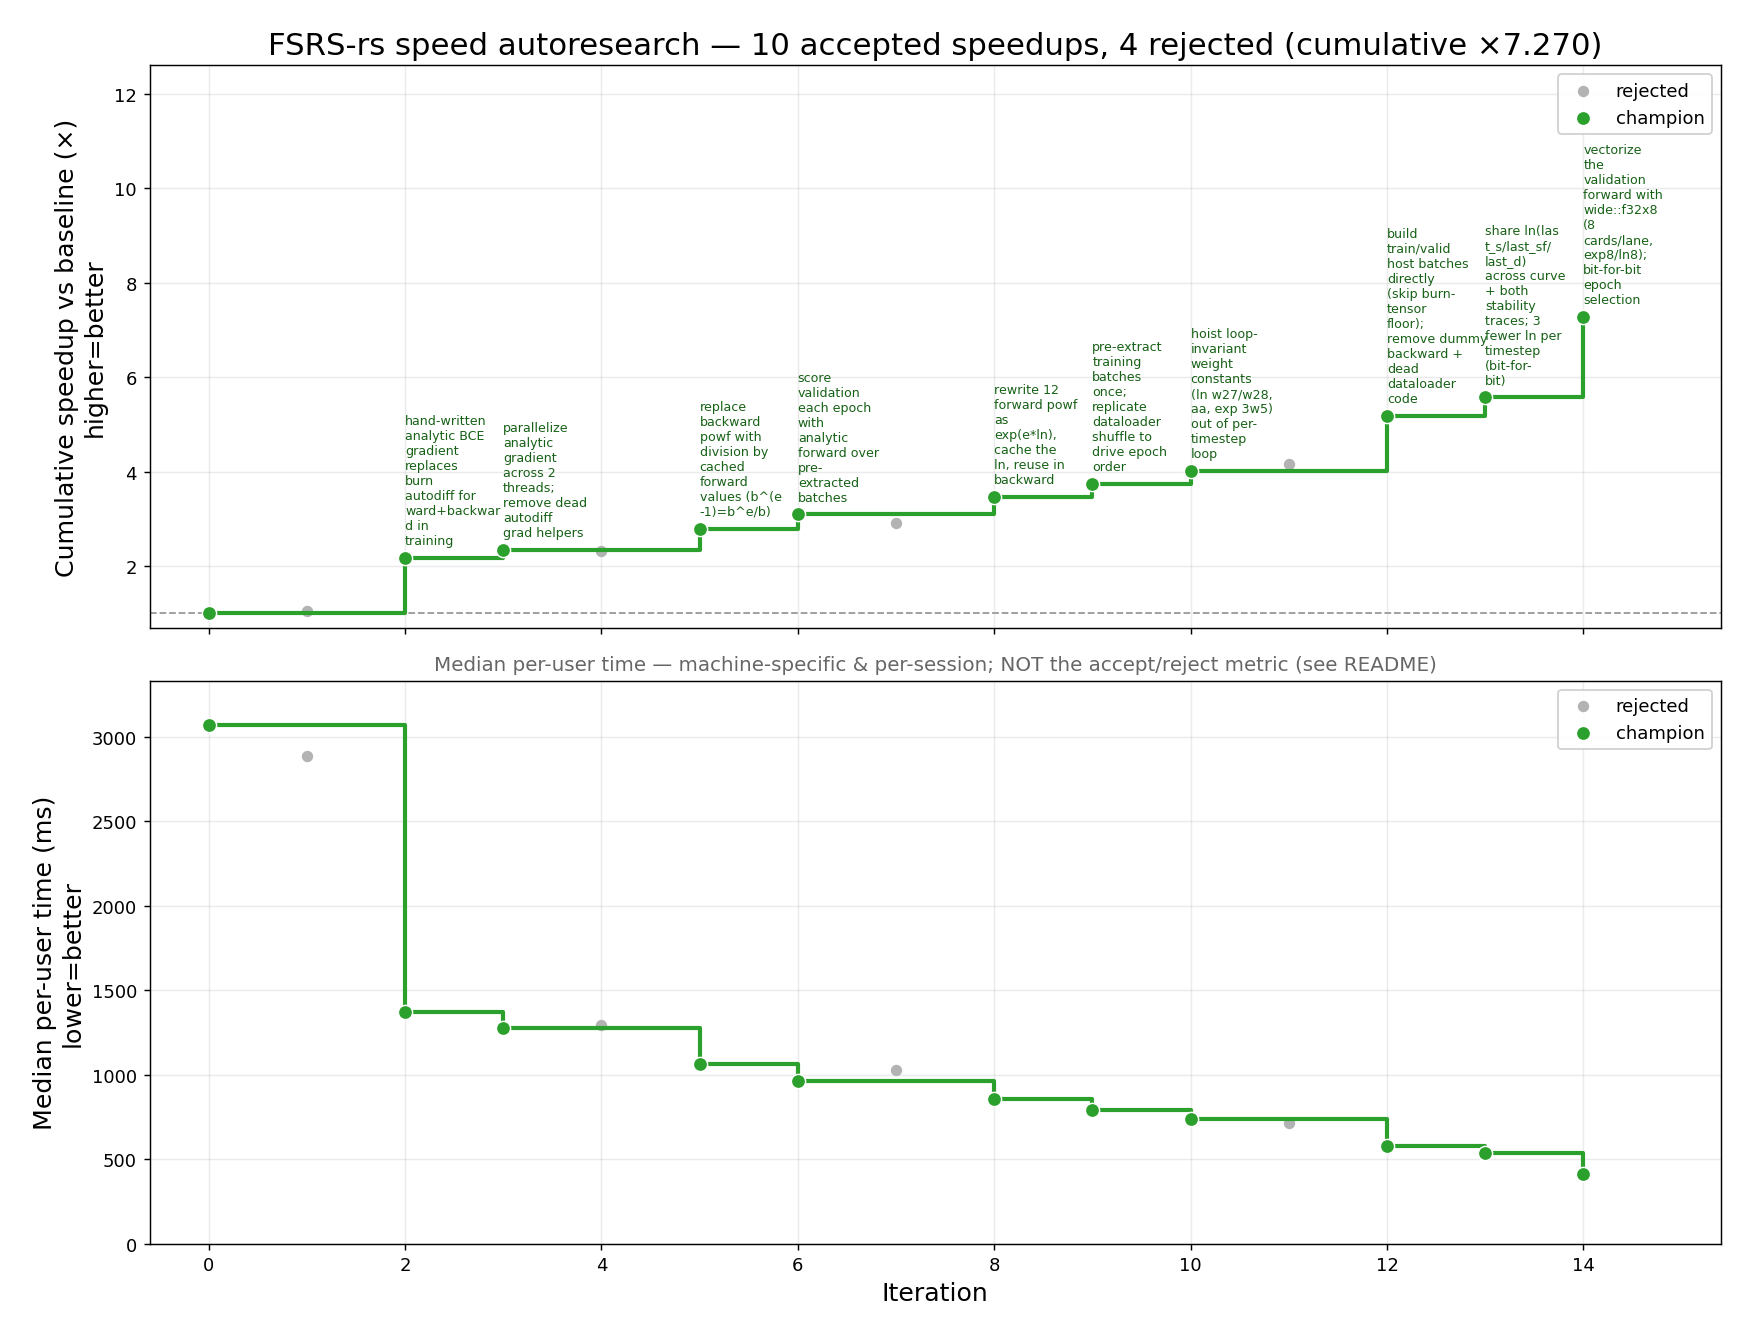
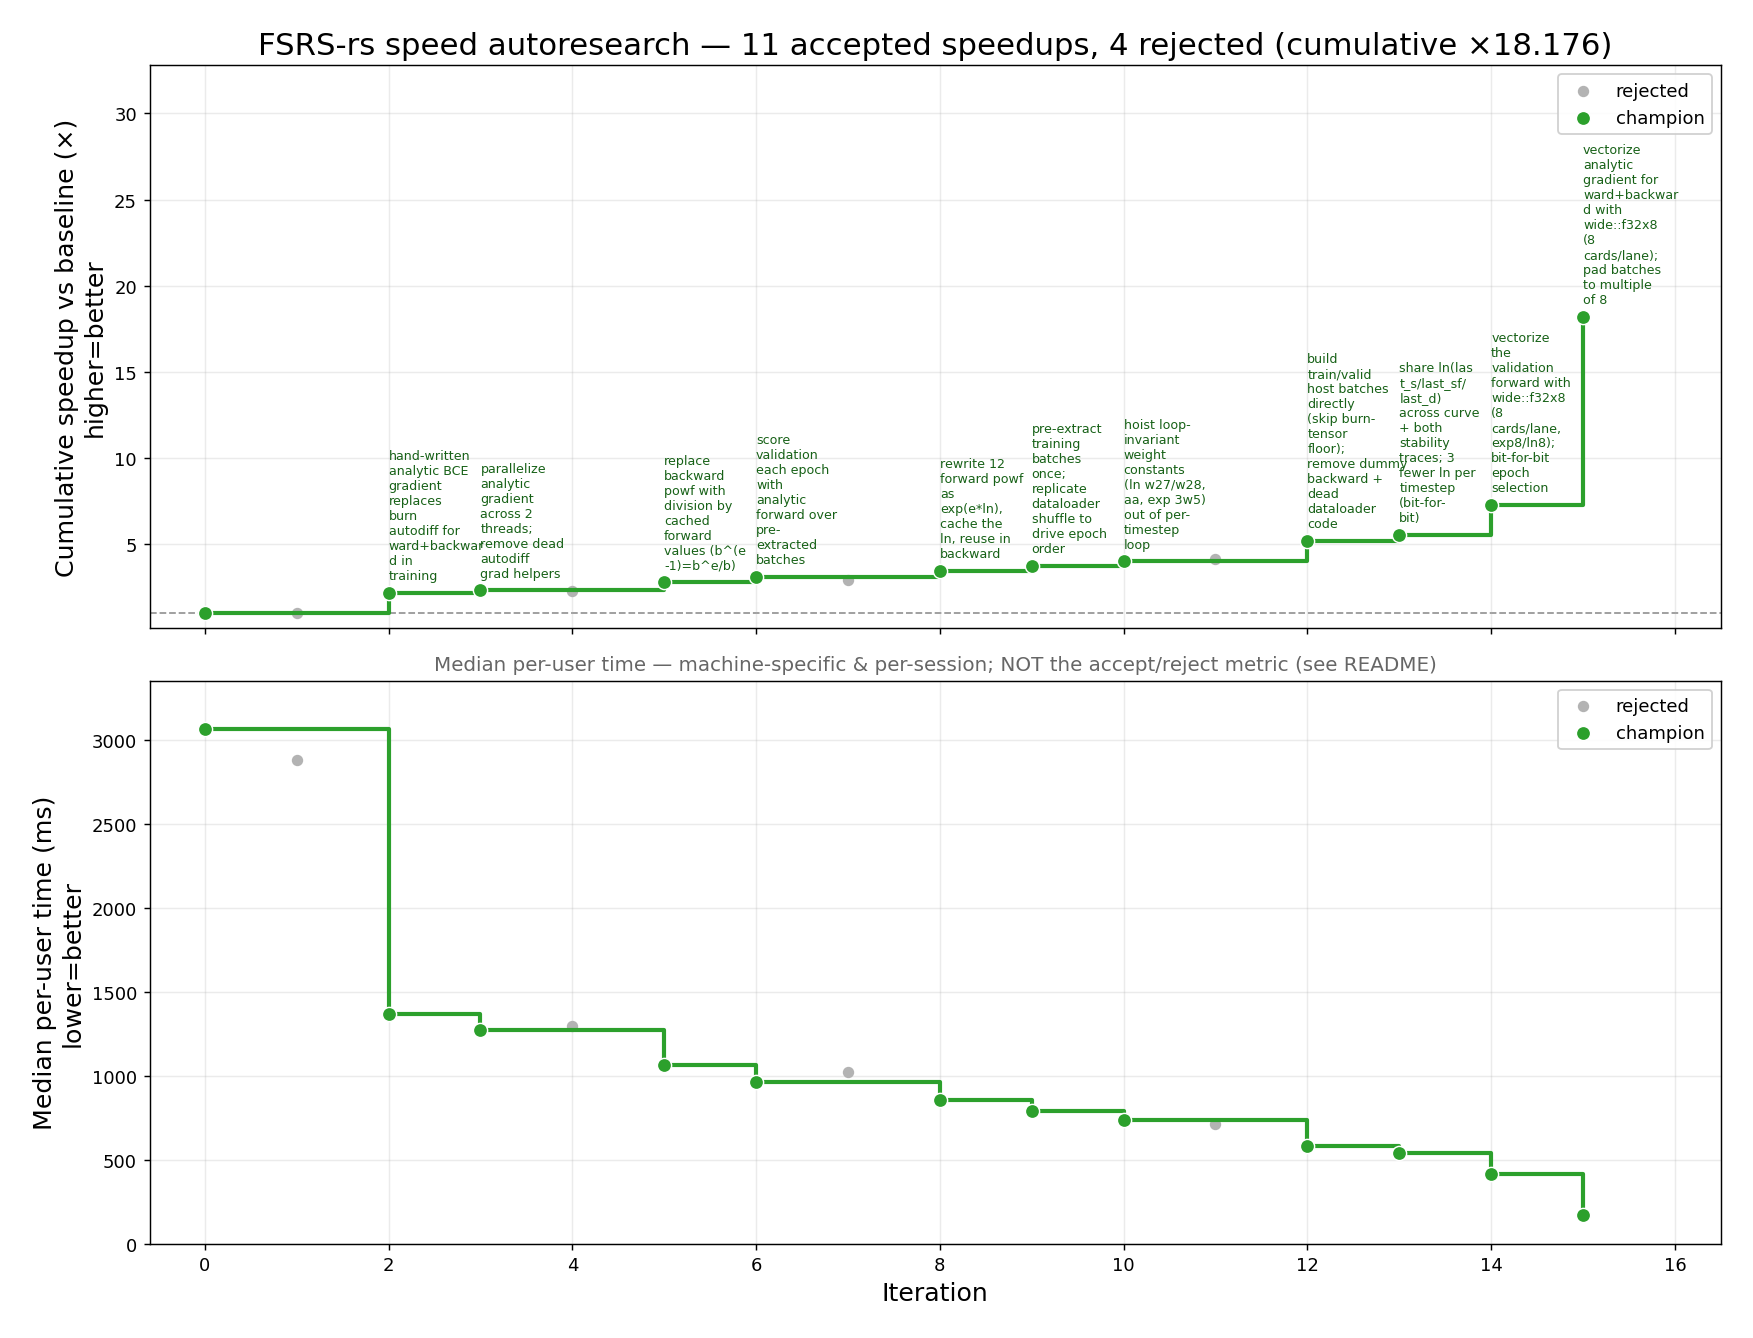
iter16 (rejected): threading the SIMD gradient regresses — vector units are SMT-saturated
Tried splitting the f32x8 gradient's 8-card groups across the worker's 2nd pinned
core (mirroring iter3's scalar-grad threading). Result: speed_ratio 0.62 — a 38%
REGRESSION (bit-for-bit correct, so purely a speed loss).

Finding: the f32x8 forward already saturates the physical core's vector execution
units with one thread, so the 2nd pinned CPU (an SMT sibling sharing those units)
adds no vector throughput, only spawn overhead. iter3 helped because the scalar
gradient left scalar units for SMT to overlap; a vectorized kernel can't. Once a
phase is SIMD, SIMD-width and SMT-threads compete for the same units — they don't
stack. Reverted to single-thread (kept an explanatory comment).

Champion stays iter15 (~170 ms median this session). Also sweeps in Andrew's
CLAUDE.md clarification (the O(N) expanding-window log-loss caveat is from the
upstream FSRS author, not Andrew) and the regenerated history plot, per the
commit-everything policy.

diff --git a/fsrs-rs/src/analytic.rs b/fsrs-rs/src/analytic.rs
@@ -1119,6 +1119,12 @@ pub(crate) fn batch_loss_and_grad_simd(
 ) -> f64 {
     debug_assert!(batch % 8 == 0, "batch_loss_and_grad_simd needs batch padded to a multiple of 8");
     let n_groups = batch / 8;
+    // Single-threaded ON PURPOSE: iter16 tried splitting the groups across the worker's 2nd pinned
+    // CPU (mirroring iter3's scalar-grad threading) and REGRESSED to 0.62x. The f32x8 forward
+    // saturates the physical core's vector units with one thread, so the 2nd CPU (an SMT sibling
+    // sharing those units) adds no vector throughput — only spawn overhead. (iter3 helped because
+    // the SCALAR grad used scalar units SMT could overlap; vectorized work can't.) The idle 2nd core
+    // would need coarser-than-per-batch parallelism to pay off, which isn't worth the complexity.
     loss_and_grad_range_simd(
         w, t_hist, r_hist, seq_len, batch, delta_ts, labels, weights, gw, 0, n_groups,
     )

diff --git a/CLAUDE.md b/CLAUDE.md
@@ -140,4 +140,4 @@ Candidate pathways, best-first (all subject to the correctness bars):
 1. **Hoist loop-invariant weight ops + kill per-step allocations** (safe, math-preserving / constraint 6). Each timestep re-slices weights (`model.w.get(n)` = clone+slice → a fresh tensor) and recomputes weight-only subexpressions; pre-extract the weights once per forward and hoist weight-only terms out of the seq loop. Shrinks the autodiff tape → faster fwd+bwd and less memory. **Grows with a more complex forgetting curve.** Verify bit-for-bit (3a).
 2. **Analytic / dual-number gradient for the main loss** (bold, biggest potential, high effort). Replace burn Autodiff for the BCE loss with a hand-written gradient — a `Dual35`-style template already exists in `training.rs` for the penalty term. Removing the tape could be the single biggest win; aim for the 3b band (±0.0010).
 3. **Trim per-iteration / per-epoch overhead** (safe, modest; helps the fixed floor → small collections, the long tail of real users). Each train/valid iteration copies the params tensor to a host `Vec`; each epoch runs a full validation forward. Hunt redundant host round-trips and needless validation-set reshuffles.
-4. **O(N²)→O(N) expanding window** (risky; see the O(N²) note above). Ceiling ≈ 6–7× less work, but the author says it hurts log loss and is hard — not a first move.
+4. **O(N²)→O(N) expanding window** (risky; see the O(N²) note above). Ceiling ≈ 6–7× less work, but the author (not Andrew aka not me) says it hurts log loss and is hard — not a first move.

diff --git a/result/history.md b/result/history.md
@@ -20,6 +20,7 @@ Accept metric: **median per-user speed_ratio ≥ 1.05** (constraint 12) AND **sp
 | 13 | 577 | 538 | 1.075 | 5515 | 5522 | 1.001 | 1.003 | ✓ | accepted | share ln(last_s/last_sf/last_d) across curve + both stability traces; 3 fewer ln per timestep (bit-for-bit) |
 | 14 | 534 | 414 | 1.305 | 5522 | 5884 | 1.066 | 1.172 | ✓ | accepted | vectorize the validation forward with wide::f32x8 (8 cards/lane, exp8/ln8); bit-for-bit epoch selection |
 | 15 | 410 | 168 | 2.500 | 5884 | 6458 | 1.098 | 1.262 | ✓ | accepted | vectorize analytic gradient forward+backward with wide::f32x8 (8 cards/lane); pad batches to multiple of 8 |
+| 16 | 170 | 268 | 0.623 | 6458 | 6458 | 1.000 | 1.000 | ✓ | rejected | thread SIMD gradient across 2 cores (split card-groups) - REJECTED, vector units SMT-saturated |
 
 **Cumulative speed_ratio (product of accepted): ×18.176** — upward-biased (winner's curse); anchor periodically vs iter-0 baseline.
 
